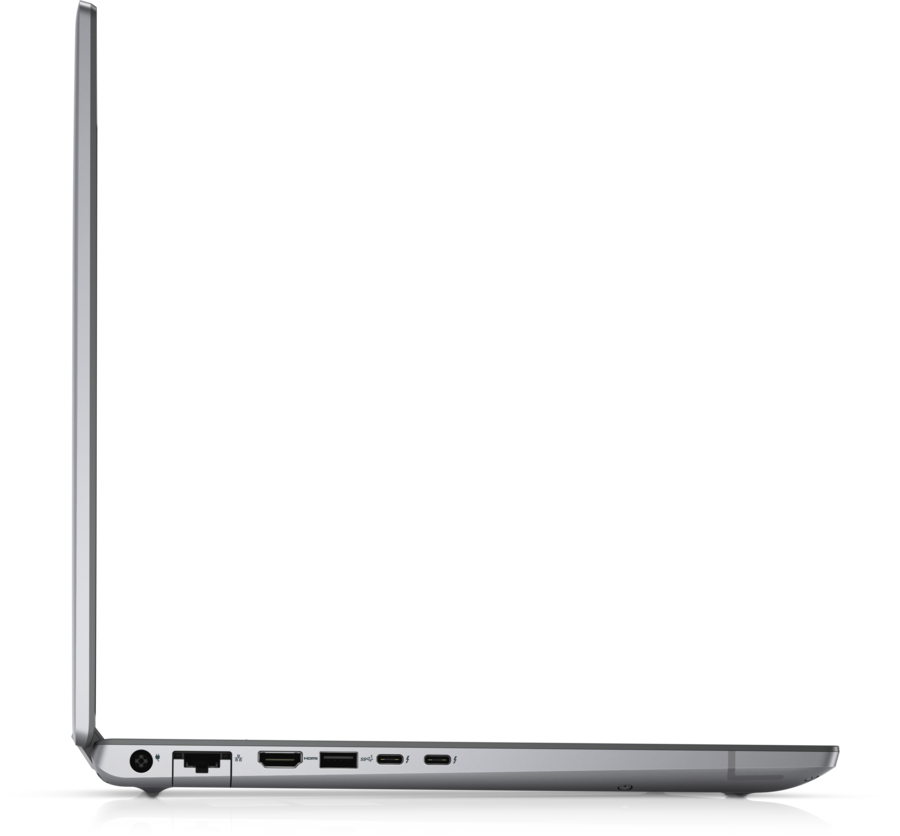
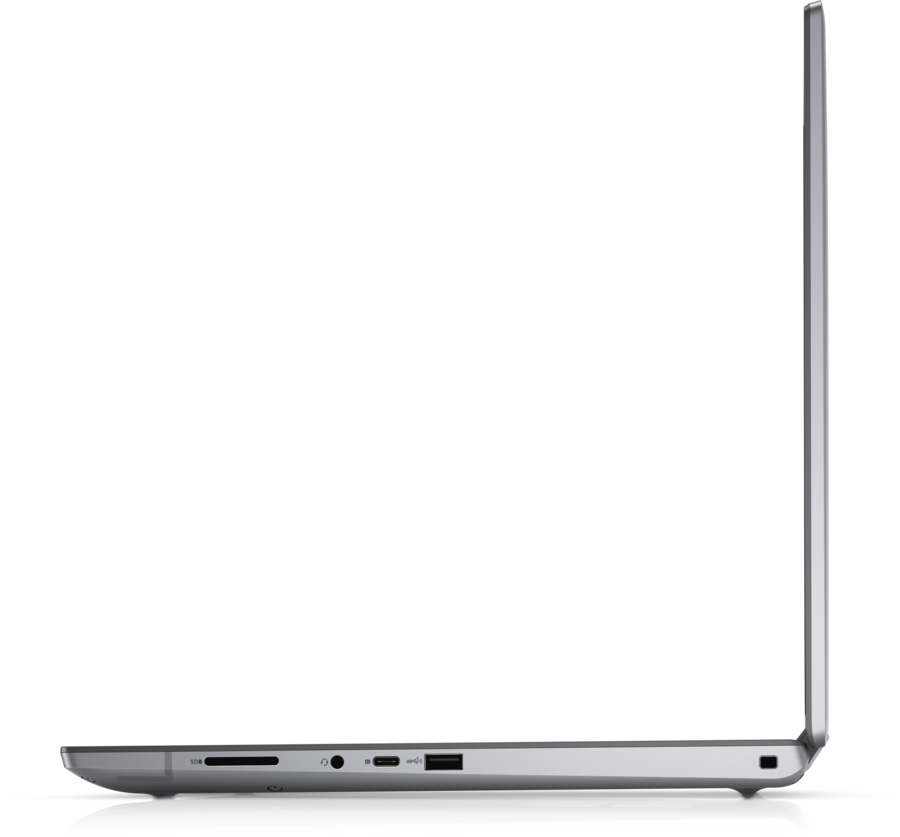
Add official Dell laptop front lid and port views

Changed region(s): [[0.0622, 0.0, 0.5289, 0.9641], [0.5289, 0.0, 0.9333, 0.9641]]

diff --git a/scripts/prepare-laptop-assets.py b/scripts/prepare-laptop-assets.py
@@ -8,9 +8,14 @@ out.mkdir(parents=True, exist_ok=True)
 assets = {
     'latitude-5520-front.png': 'https://i.dell.com/is/image/DellContent/content/dam/ss2/product-images/dell-client-products/notebooks/latitude-notebooks/latitude-15-5520/media-gallery/la5520nt_cnb_05000ff090_gy_5000x5000_gettyimages-1254825733.psd?fmt=png-alpha&wid=900',
     'latitude-5520-ports.jpg': 'https://i.dell.com/is/image/DellContent/content/dam/ss2/product-images/dell-client-products/notebooks/latitude-notebooks/latitude-15-5520/pdp/laptops-latitude-15-5520-pdp-mod-5.jpg?fmt=jpg&hei=500&wid=965',
-    'precision-7560-front.jpg': 'https://media-new.laptop88.vn/laptop88/products/20260603/6230547958c95573/8517_dell_precision_7560_1.jpg',
+    'precision-7560-front.png': 'https://i.dell.com/is/image/DellContent/content/dam/ss2/product-images/dell-client-products/workstations/mobile-workstations/precision/15-7560/media-gallery/workstation_precision_15_7560_gallery_3.psd?fmt=png-alpha&wid=900',
+    'precision-7560-rear.png': 'https://i.dell.com/is/image/DellContent/content/dam/ss2/product-images/dell-client-products/workstations/mobile-workstations/precision/15-7560/media-gallery/workstation_precision_15_7560_gallery_4.psd?fmt=png-alpha&wid=900',
+    'precision-7560-right.png': 'https://i.dell.com/is/image/DellContent/content/dam/ss2/product-images/dell-client-products/workstations/mobile-workstations/precision/15-7560/media-gallery/workstation_precision_15_7560_gallery_6.psd?fmt=png-alpha&wid=900',
+    'precision-7560-left.png': 'https://i.dell.com/is/image/DellContent/content/dam/ss2/product-images/dell-client-products/workstations/mobile-workstations/precision/15-7560/media-gallery/workstation_precision_15_7560_gallery_7.psd?fmt=png-alpha&wid=900',
     'precision-7670-front.png': 'https://i.dell.com/is/image/DellContent/content/dam/ss2/product-images/dell-client-products/workstations/mobile-workstations/precision/16-7670/media-gallery/notebook-precision-7670-gray-gallery-1.psd?fmt=png-alpha&wid=900',
-    'precision-7670-right.png': 'https://i.dell.com/is/image/DellContent/content/dam/ss2/product-images/dell-client-products/workstations/mobile-workstations/precision/16-7670/media-gallery/notebook-precision-7670-gray-gallery-7.psd?fmt=png-alpha&wid=900',
+    'precision-7670-lid.png': 'https://i.dell.com/is/image/DellContent/content/dam/ss2/product-images/dell-client-products/workstations/mobile-workstations/precision/16-7670/media-gallery/notebook-precision-7670-gray-gallery-8.psd?fmt=png-alpha&wid=900',
+    'precision-7670-left.png': 'https://i.dell.com/is/image/DellContent/content/dam/ss2/product-images/dell-client-products/workstations/mobile-workstations/precision/16-7670/media-gallery/notebook-precision-7670-gray-gallery-7.psd?fmt=png-alpha&wid=900',
+    'precision-7670-right.png': 'https://i.dell.com/is/image/DellContent/content/dam/ss2/product-images/dell-client-products/workstations/mobile-workstations/precision/16-7670/media-gallery/notebook-precision-7670-gray-gallery-6.psd?fmt=png-alpha&wid=900',
     'prestige-14-front.png': 'https://storage-asset.msi.com/global/picture/image/feature/nb/Prestige/Prestige14-AI-Studio-C1V/kv-nb-xs.png',
     'prestige-14-closed.png': 'https://storage-asset.msi.com/global/picture/image/feature/nb/Prestige/Prestige14-AI-Studio-C1V/prestige14-ai-evo-grd-top.png',
     'prestige-14-left.png': 'https://storage-asset.msi.com/global/picture/image/feature/nb/Prestige/Prestige14-AI-Studio-C1V/io-nb-left-xs.png',

diff --git a/scripts/build-laptop-catalog.py b/scripts/build-laptop-catalog.py
@@ -12,8 +12,8 @@ headers = [cell.value for cell in sheet[1]]
 photos = {
     'Dell Latitude 5520': ['latitude-5520-front.png', 'latitude-5520-ports.jpg'],
     'Dell Precision 7550': ['precision-7550-front.png'],
-    'Dell Precision 7560': ['precision-7560-front.jpg'],
-    'Dell Precision 7670': ['precision-7670-front.png', 'precision-7670-right.png'],
+    'Dell Precision 7560': ['precision-7560-front.png', 'precision-7560-rear.png', 'precision-7560-left.png', 'precision-7560-right.png'],
+    'Dell Precision 7670': ['precision-7670-front.png', 'precision-7670-lid.png', 'precision-7670-left.png', 'precision-7670-right.png'],
     'MSI Prestige 14 AI Studio': ['prestige-14-front.png', 'prestige-14-closed.png', 'prestige-14-left.png', 'prestige-14-right.png'],
 }
 

diff --git a/LAPTOP_SETUP.md b/LAPTOP_SETUP.md
@@ -40,10 +40,10 @@ reactivate or replace its link before offering it again.
 
 Photos show the model, not the actual used machine. Source image URLs are in
 `scripts/prepare-laptop-assets.py`. The Latitude 5520 front and side-port views,
-Precision 7550 front/closed composite, Precision 7670 front and port view, and
-MSI Prestige 14 front/closed/left/right views come from Dell and MSI assets.
-The Precision 7560 front/closed composite is a Dell product render hosted by
-Laptop88. Each model uses the same reference views across its individual
+Precision 7550 front/closed composite, Precision 7670 front/lid/left/right views,
+and MSI Prestige 14 front/closed/left/right views come from Dell and MSI assets.
+The Precision 7560 front, rear/lid, left, and right views are official Dell
+gallery images. Each model uses the same reference views across its individual
 stock-number cards. Buyers should request photos of the actual unit to inspect
 cosmetic wear.
 
